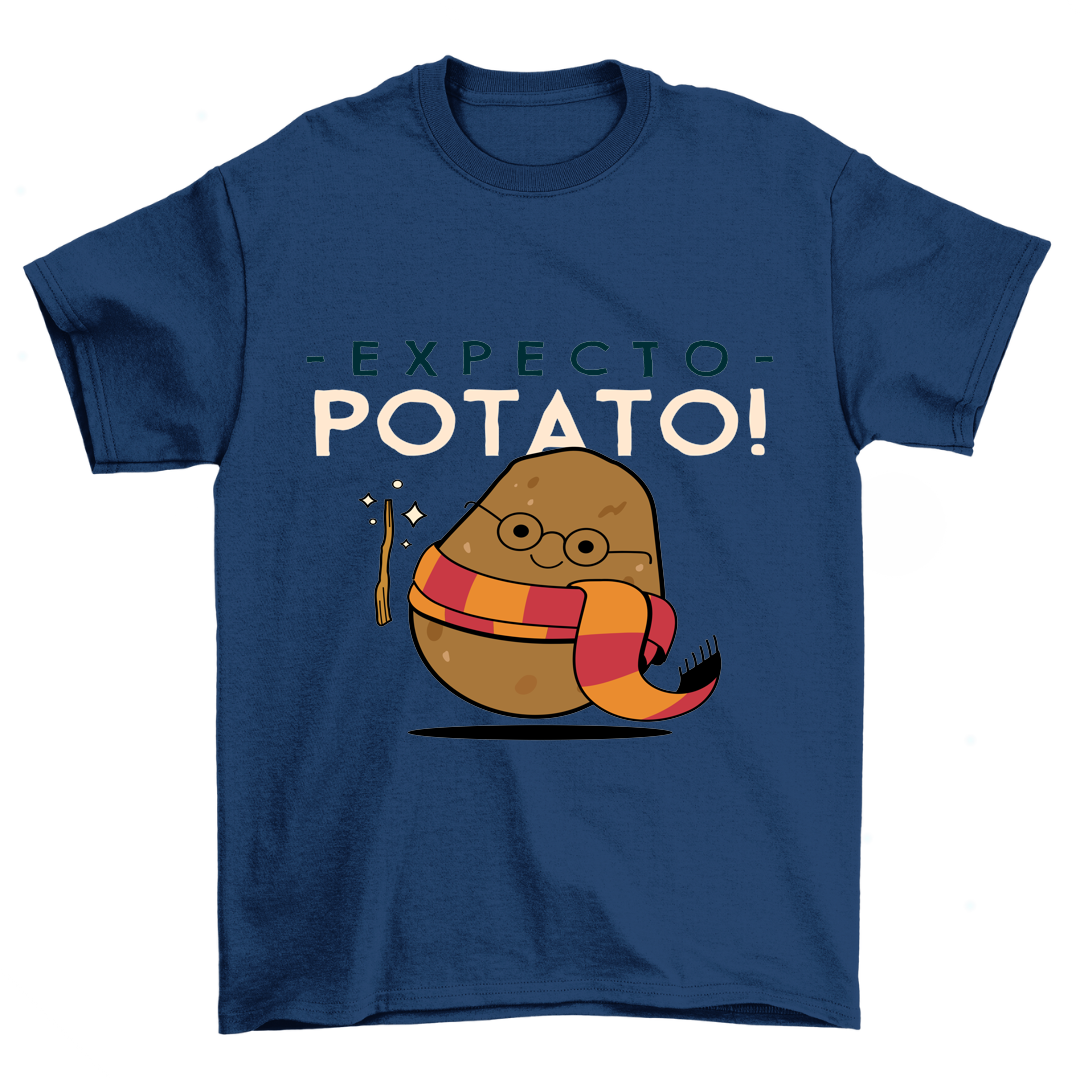
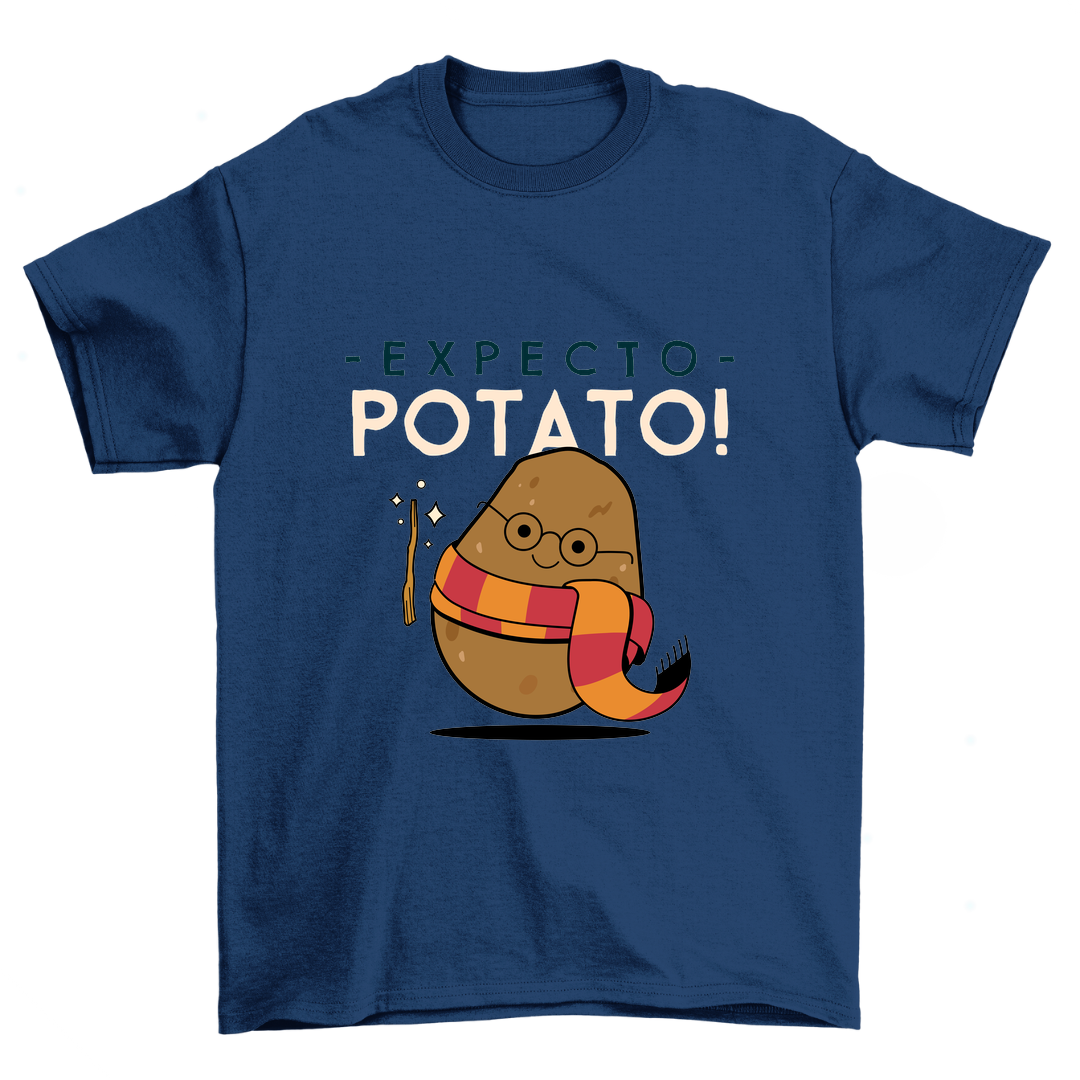
feat(TORCC-5): working prototype

Changed region(s): [[0.275, 0.3056, 0.7333, 0.7028], [0.4278, 0.6417, 0.4889, 0.6722], [0.3667, 0.6722, 0.4278, 0.7028]]

diff --git a/automate_design/automate_design.py b/automate_design/automate_design.py
@@ -8,14 +8,15 @@ design_image = Image.open(design_path).convert("RGBA")
 clothing_image = Image.open(clothing_path)
 
 # Resize the design image to fit on the clothing image
-design_size = (int(clothing_image.size[0] / 2), int(clothing_image.size[1] / 2))
-design_image = design_image.resize(design_size)
+max_width = int(clothing_image.size[0] / 2)
+max_height = int(clothing_image.size[1] / 2)
+design_image.thumbnail((max_width, max_height), Image.LANCZOS)
 
 # Paste the clothing image onto the canvas
 final_image = clothing_image.copy()
 
 # Paste the design image onto the clothing image
-design_position = (int((clothing_image.size[0] - design_size[0]) / 2), int((clothing_image.size[1] - design_size[1]) / 2))
+design_position = (int((clothing_image.size[0] - design_image.size[0]) / 2), int((clothing_image.size[1] - design_image.size[1]) / 2))
 final_image.paste(design_image, design_position, design_image)
 
 # Save the final image in PNG format
